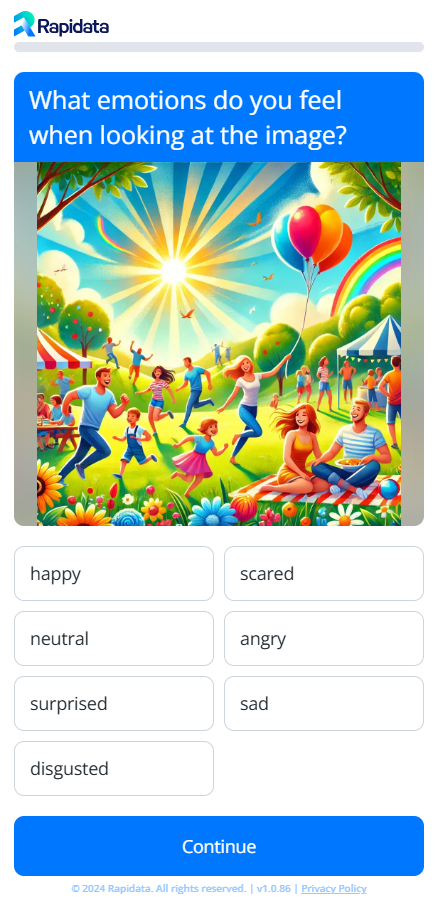
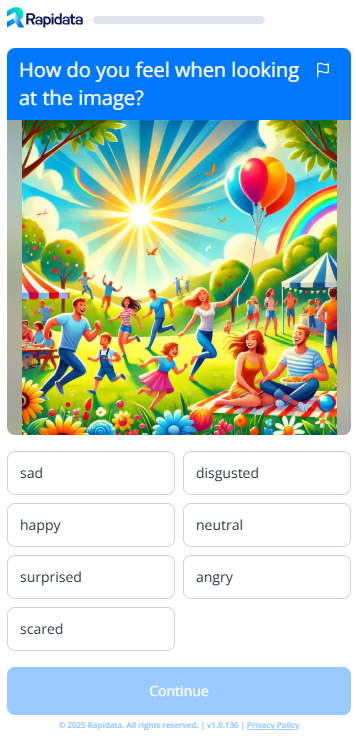
Feat/rapid 4536 change example question (#219)
* changed the example question

* adjusted image dimensions

* lol

diff --git a/examples/classify_order.py b/examples/classify_order.py
@@ -17,7 +17,7 @@ def get_emotions_of_images_order(rapi: RapidataClient):
     # Configure order
     order = rapi.order.create_classification_order(
         name="emotions from images",
-        instruction="What emotions do you feel when looking at the image?",
+        instruction="How do you feel when looking at the image?",
         answer_options=["happy", "sad", "angry", "surprised", "disgusted", "scared", "neutral"],
         datapoints=generated_images_urls,
         responses_per_datapoint=50
